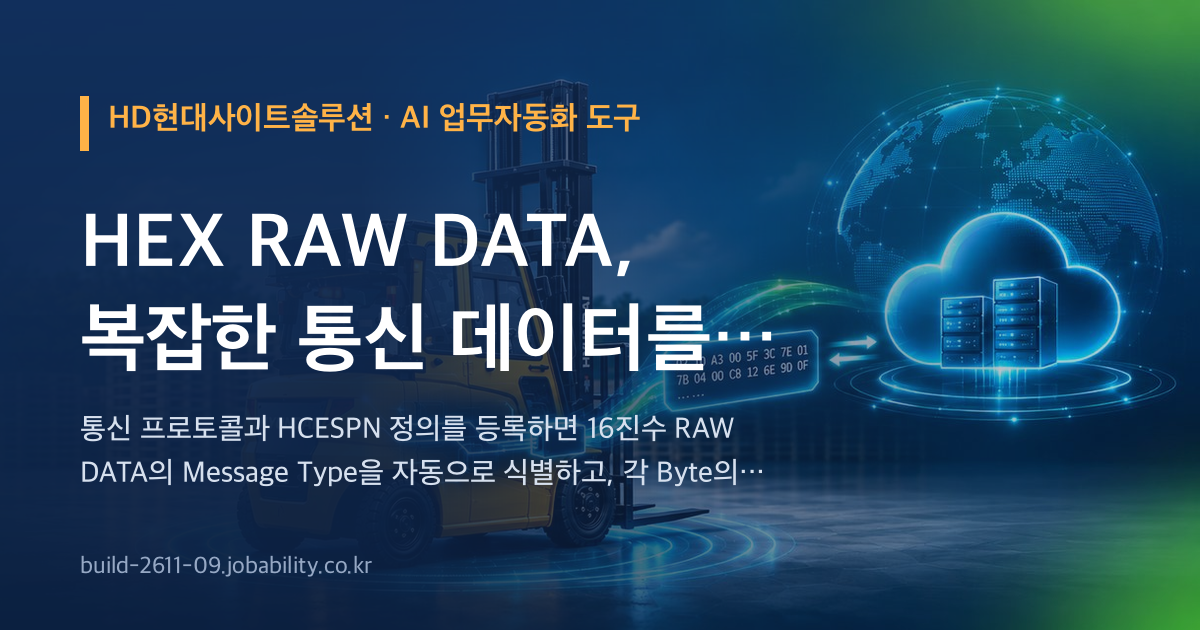
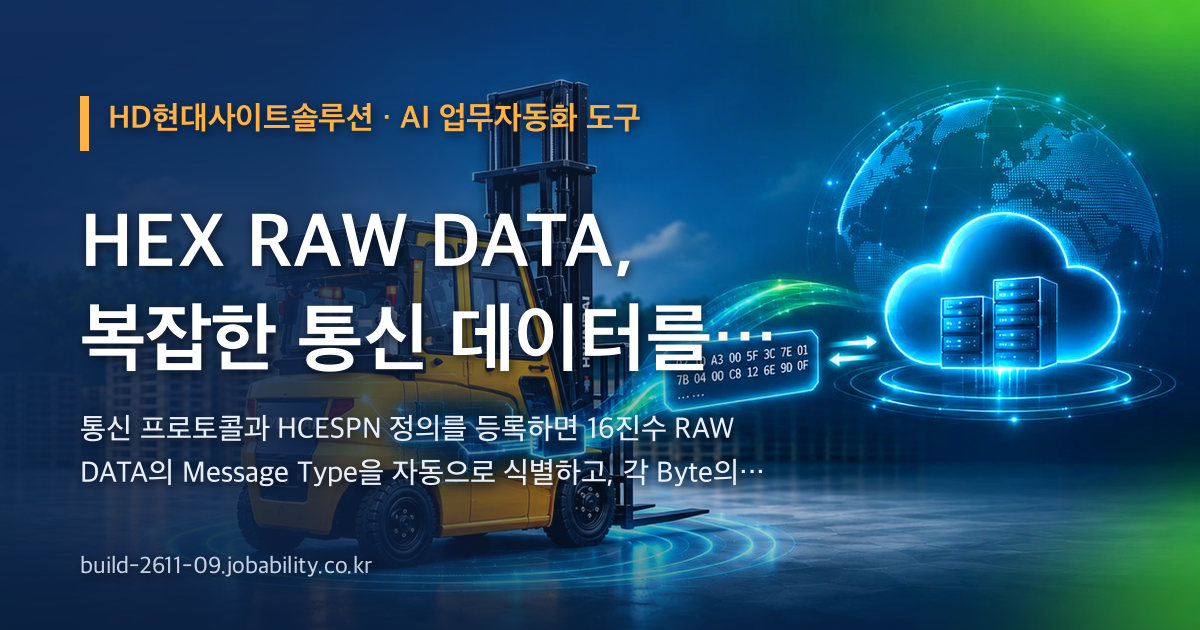
공유 그림 다시(사진 또렷하게) · 판 2026-11-13.12

Changed region(s): [[0.2467, 0.0, 1.0, 0.9651], [0.0617, 0.8746, 0.3083, 0.9048], [0.925, 0.9651, 1.0, 1.0]]

diff --git a/index.html b/index.html
@@ -12,8 +12,8 @@
 <meta property="og:title" content="HD현대사이트솔루션 · HEX RAW DATA, 복잡한 통신 데이터를 한눈에">
 <meta property="og:description" content="통신 프로토콜과 HCESPN 정의를 등록하면 16진수 RAW DATA의 Message Type을 자동으로 식별하고, 각 Byte의 의미와 환산값을 분석합니다. Byte에 마우스를 올리는 것만으로 상세 해석을 확인하고, 새로운 HCESPN도 간편하게 추가합니다.">
 <meta property="og:url" content="https://build-2611-09.jobability.co.kr/">
-<meta property="og:image" content="https://build-2611-09.jobability.co.kr/og-image.png">
-<meta property="og:image:secure_url" content="https://build-2611-09.jobability.co.kr/og-image.png">
+<meta property="og:image" content="https://build-2611-09.jobability.co.kr/og-image.png?v=2">
+<meta property="og:image:secure_url" content="https://build-2611-09.jobability.co.kr/og-image.png?v=2">
 <meta property="og:image:type" content="image/png">
 <meta property="og:image:width" content="1200">
 <meta property="og:image:height" content="630">
@@ -22,16 +22,16 @@
 <meta name="twitter:card" content="summary_large_image">
 <meta name="twitter:title" content="HD현대사이트솔루션 · HEX RAW DATA, 복잡한 통신 데이터를 한눈에">
 <meta name="twitter:description" content="통신 프로토콜과 HCESPN 정의를 등록하면 16진수 RAW DATA의 Message Type을 자동으로 식별하고, 각 Byte의 의미와 환산값을 분석합니다. Byte에 마우스를 올리는 것만으로 상세 해석을 확인하고, 새로운 HCESPN도 간편하게 추가합니다.">
-<meta name="twitter:image" content="https://build-2611-09.jobability.co.kr/og-image.png">
+<meta name="twitter:image" content="https://build-2611-09.jobability.co.kr/og-image.png?v=2">
 <!-- /seo-kit -->
 <meta name="description" content="통신 프로토콜과 HCESPN 정의를 등록하면 16진수 RAW DATA의 Message Type을 자동으로 식별하고, 각 Byte의 의미와 환산값을 분석합니다. Byte에 마우스를 올리는 것만으로 상세 해석을 확인하고, 새로운 HCESPN도 간편하게 추가합니다.">
 <link rel="icon" href="favicon.svg" type="image/svg+xml">
 <link rel="stylesheet" href="css/analyzer.css?v=2.0b">
 <!-- auth-kit: 로그인 전에는 도구 화면을 감춘다(js/auth.js 가 판정 뒤 푼다) -->
 <script>document.documentElement.classList.add('auth-lock')</script>
-<link rel="stylesheet" href="css/auth.css?v=2026-11-13.11">
-<link rel="stylesheet" href="css/board.css?v=2026-11-13.11">
-<link rel="stylesheet" href="css/kit-build.css?v=2026-11-13.11">
+<link rel="stylesheet" href="css/auth.css?v=2026-11-13.12">
+<link rel="stylesheet" href="css/board.css?v=2026-11-13.12">
+<link rel="stylesheet" href="css/kit-build.css?v=2026-11-13.12">
 <!-- /auth-kit -->
 </head>
 <body>
@@ -60,11 +60,11 @@
 <script src="js/hcespn.js?v=2.0b"></script>
 <script src="js/app.js?v=2.0b"></script>
 <!-- auth-kit: 로그인 · 사용 신청 · 승인 · 게시판(키트 정본 data10-00/kit/auth, 적용 build-2611-00/tools/kit) -->
-<script src="vendor/supabase.js?v=2026-11-13.11"></script>
-<script src="js/auth-config.js?v=2026-11-13.11"></script>
-<script src="js/kit-build.js?v=2026-11-13.11"></script>
-<script src="js/board.js?v=2026-11-13.11"></script>
-<script src="js/auth.js?v=2026-11-13.11"></script>
+<script src="vendor/supabase.js?v=2026-11-13.12"></script>
+<script src="js/auth-config.js?v=2026-11-13.12"></script>
+<script src="js/kit-build.js?v=2026-11-13.12"></script>
+<script src="js/board.js?v=2026-11-13.12"></script>
+<script src="js/auth.js?v=2026-11-13.12"></script>
 <!-- /auth-kit -->
 </body>
 </html>

diff --git a/guide.html b/guide.html
@@ -12,8 +12,8 @@
 <meta property="og:title" content="사용법 — HEX Protocol Analyzer">
 <meta property="og:description" content="통신 프로토콜 표와 HCESPN 정의를 등록해 두면 16진수 RAW DATA 의 Message Type 을 찾아 Byte 별 의미와 환산값을 자동으로 해석하는 브라우저 도구입니다. Byte 에 마우스를 올리면 해석이 보이고, 새 HCESPN 은 코드 수정 없이 등록만으로 늘어납니다.">
 <meta property="og:url" content="https://build-2611-09.jobability.co.kr/guide.html">
-<meta property="og:image" content="https://build-2611-09.jobability.co.kr/og-image.png">
-<meta property="og:image:secure_url" content="https://build-2611-09.jobability.co.kr/og-image.png">
+<meta property="og:image" content="https://build-2611-09.jobability.co.kr/og-image.png?v=2">
+<meta property="og:image:secure_url" content="https://build-2611-09.jobability.co.kr/og-image.png?v=2">
 <meta property="og:image:type" content="image/png">
 <meta property="og:image:width" content="1200">
 <meta property="og:image:height" content="630">
@@ -22,7 +22,7 @@
 <meta name="twitter:card" content="summary_large_image">
 <meta name="twitter:title" content="사용법 — HEX Protocol Analyzer">
 <meta name="twitter:description" content="통신 프로토콜 표와 HCESPN 정의를 등록해 두면 16진수 RAW DATA 의 Message Type 을 찾아 Byte 별 의미와 환산값을 자동으로 해석하는 브라우저 도구입니다. Byte 에 마우스를 올리면 해석이 보이고, 새 HCESPN 은 코드 수정 없이 등록만으로 늘어납니다.">
-<meta name="twitter:image" content="https://build-2611-09.jobability.co.kr/og-image.png">
+<meta name="twitter:image" content="https://build-2611-09.jobability.co.kr/og-image.png?v=2">
 <!-- /seo-kit -->
 <link rel="icon" href="favicon.svg" type="image/svg+xml">
 <link rel="stylesheet" href="css/style.css?v=2.0b">

diff --git a/plan.html b/plan.html
@@ -12,8 +12,8 @@
 <meta property="og:title" content="기획서 — HEX Protocol Analyzer">
 <meta property="og:description" content="통신 프로토콜 표와 HCESPN 정의를 등록해 두면 16진수 RAW DATA 의 Message Type 을 찾아 Byte 별 의미와 환산값을 자동으로 해석하는 브라우저 도구입니다. Byte 에 마우스를 올리면 해석이 보이고, 새 HCESPN 은 코드 수정 없이 등록만으로 늘어납니다.">
 <meta property="og:url" content="https://build-2611-09.jobability.co.kr/plan.html">
-<meta property="og:image" content="https://build-2611-09.jobability.co.kr/og-image.png">
-<meta property="og:image:secure_url" content="https://build-2611-09.jobability.co.kr/og-image.png">
+<meta property="og:image" content="https://build-2611-09.jobability.co.kr/og-image.png?v=2">
+<meta property="og:image:secure_url" content="https://build-2611-09.jobability.co.kr/og-image.png?v=2">
 <meta property="og:image:type" content="image/png">
 <meta property="og:image:width" content="1200">
 <meta property="og:image:height" content="630">
@@ -22,7 +22,7 @@
 <meta name="twitter:card" content="summary_large_image">
 <meta name="twitter:title" content="기획서 — HEX Protocol Analyzer">
 <meta name="twitter:description" content="통신 프로토콜 표와 HCESPN 정의를 등록해 두면 16진수 RAW DATA 의 Message Type 을 찾아 Byte 별 의미와 환산값을 자동으로 해석하는 브라우저 도구입니다. Byte 에 마우스를 올리면 해석이 보이고, 새 HCESPN 은 코드 수정 없이 등록만으로 늘어납니다.">
-<meta name="twitter:image" content="https://build-2611-09.jobability.co.kr/og-image.png">
+<meta name="twitter:image" content="https://build-2611-09.jobability.co.kr/og-image.png?v=2">
 <!-- /seo-kit -->
 <link rel="icon" href="favicon.svg" type="image/svg+xml">
 <link rel="stylesheet" href="css/style.css">

diff --git a/report.html b/report.html
@@ -12,8 +12,8 @@
 <meta property="og:title" content="평가보고서 — HEX Protocol Analyzer">
 <meta property="og:description" content="HEX Protocol Analyzer 점검 · 평가보고서(2026-11-13) — 사이트 점검, 기능과 시험, 인계 준비, 판 이력, 한계.">
 <meta property="og:url" content="https://build-2611-09.jobability.co.kr/report.html">
-<meta property="og:image" content="https://build-2611-09.jobability.co.kr/og-image.png">
-<meta property="og:image:secure_url" content="https://build-2611-09.jobability.co.kr/og-image.png">
+<meta property="og:image" content="https://build-2611-09.jobability.co.kr/og-image.png?v=2">
+<meta property="og:image:secure_url" content="https://build-2611-09.jobability.co.kr/og-image.png?v=2">
 <meta property="og:image:type" content="image/png">
 <meta property="og:image:width" content="1200">
 <meta property="og:image:height" content="630">
@@ -22,7 +22,7 @@
 <meta name="twitter:card" content="summary_large_image">
 <meta name="twitter:title" content="평가보고서 — HEX Protocol Analyzer">
 <meta name="twitter:description" content="HEX Protocol Analyzer 점검 · 평가보고서(2026-11-13) — 사이트 점검, 기능과 시험, 인계 준비, 판 이력, 한계.">
-<meta name="twitter:image" content="https://build-2611-09.jobability.co.kr/og-image.png">
+<meta name="twitter:image" content="https://build-2611-09.jobability.co.kr/og-image.png?v=2">
 <!-- /seo-kit -->
 <meta name="description" content="HEX Protocol Analyzer 점검 · 평가보고서(2026-11-13) — 사이트 점검, 기능과 시험, 인계 준비, 판 이력, 한계.">
 <link rel="icon" href="favicon.svg" type="image/svg+xml">
